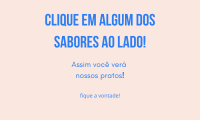
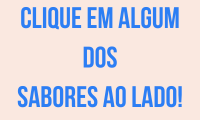
up

diff --git a/estilos/style.css b/estilos/style.css
@@ -43,13 +43,13 @@ hr{
 }
 
 h1{
-    font-size: 30px;
+    font-size: 32px;
 }
 
 h2{
     font-family: 'title';
     color: #2C7EF4;
-    font-size: 25px;
+    font-size: 24px;
 }
 
 p{
@@ -101,4 +101,11 @@ iframe{
     height: 120px;
     margin-right: 20px;
     display: inline-block;
+}
+
+#p1 img{
+    top: 384px;
+    left: 270px;
+    border-radius: 10px;
+    position: absolute;
 }

diff --git a/index.html b/index.html
@@ -53,9 +53,10 @@
                 </div>
 
                 <iframe name="fotos" style="float: right;">
-                    <img src="imagens/click.png">
                 </iframe>
-                
+
+                <img src="imagens/click.png">
+
             </div>
 </body>
 </html>
